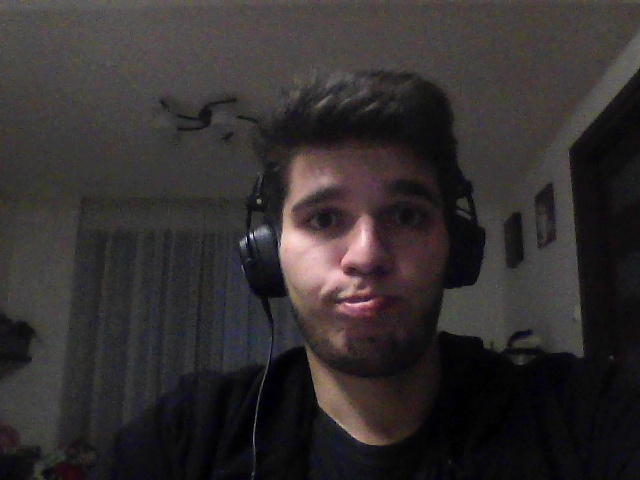
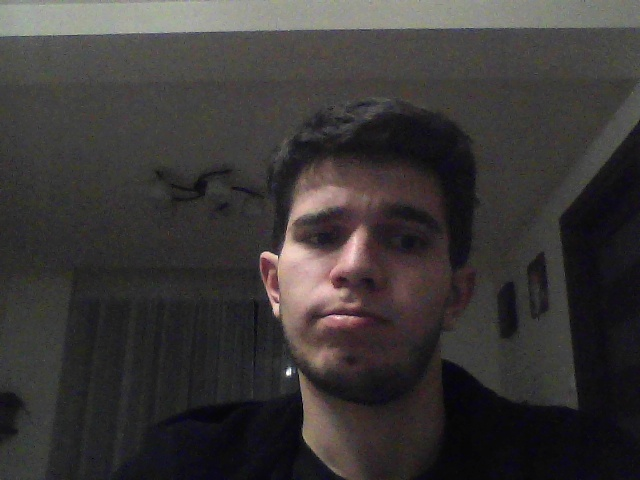
main -> making a photo

diff --git a/python/make_a_photo.py b/python/make_a_photo.py
@@ -1,19 +1,19 @@
 import time
-import cv2
+from cv2 import cv2
 
-frame_count = 8
+def make_a_photo(dev1 = "/dev/video0", dev2 = "/dev/video0"):
+    frame_count = 8
+    camera = cv2.VideoCapture(dev1) #change to video2
+    time.sleep(0.1)
+    for i in range(frame_count):
+        return_value, image = camera.read()
+    cv2.imwrite("img/cube_down_new.jpg", image)
+    del(camera)
 
-camera = cv2.VideoCapture("/dev/video0") #change to video2
-time.sleep(0.1)
-for i in range(frame_count):
-    return_value, image = camera.read()
-cv2.imwrite("img/cube_down_new.jpg", image)
-del(camera)
-
-camera = cv2.VideoCapture("/dev/video0") #change to video4
-time.sleep(0.1)
-for i in range(frame_count):
-    return_value, image = camera.read()
-cv2.imwrite("img/cube_up_new.jpg", image)
-del(camera)
+    camera = cv2.VideoCapture(dev2) #change to video4
+    time.sleep(0.1)
+    for i in range(frame_count):
+        return_value, image = camera.read()
+    cv2.imwrite("img/cube_up_new.jpg", image)
+    del(camera)
 

diff --git a/python/main.py b/python/main.py
@@ -15,9 +15,9 @@ coords = [[],[]]
 coords_down = []
 coords_up = []
 
-from read_points_from_file import read_points_from_file
+import read_points_from_file
 
-coords = [coords_down, coords_up] = read_points_from_file(PATH + 'python/points.txt')
+coords = [coords_down, coords_up] = read_points_from_file.read_points_from_file(PATH + 'data/points.txt')
 
 
 #save old photos in history
@@ -30,10 +30,12 @@ photo_history.set_path(PATH)
 photo_history.save_history()
 
 #make a photo
+import make_a_photo
 
+make_a_photo.make_a_photo('/dev/video0', '/dev/video0')
 
+#take the color values and save it
 
-#odczytaj wartosci i zapisz je do pliku 
 
 
 #obróć ściankę 

diff --git a/python/read_points_from_file.py b/python/read_points_from_file.py
@@ -1,5 +1,4 @@
 
-
 def read_points_from_file(file = '/home/alex/inzynierka/python/points.txt'):
     """This function gets an file with points on cube and return 2 dim array with x & y points 
     """
